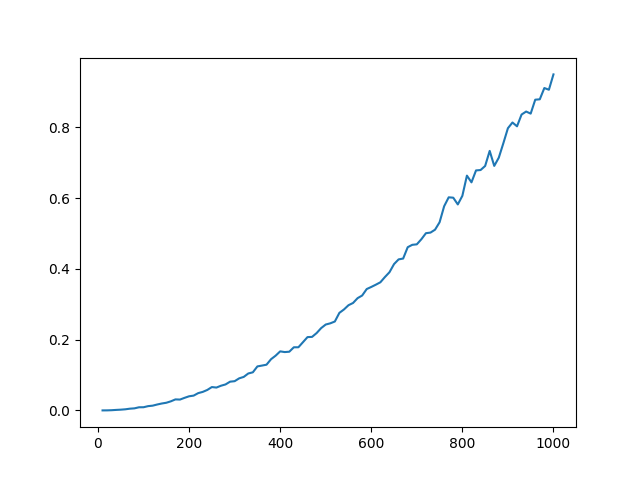
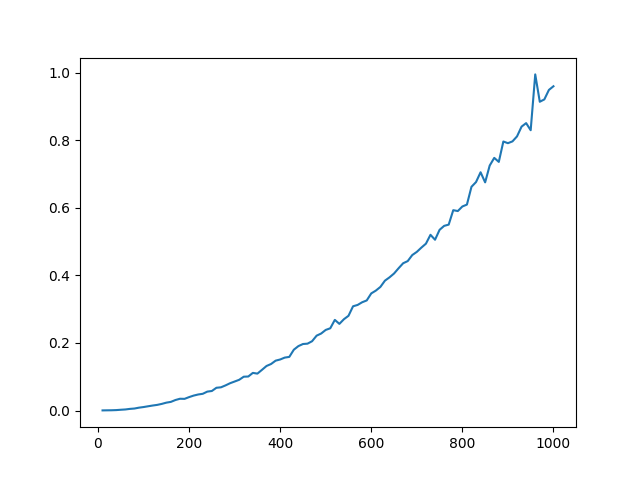
Add insertion sort

diff --git a/InsertionSort.py b/InsertionSort.py
@@ -1,0 +1,57 @@
+import random, time
+import matplotlib.pyplot as plt
+
+class testCase:
+    def __init__(self):
+        self.listSize = 0
+        self.list = []
+        self.compareCount = 0
+        self.beforeTime = 0
+        self.afterTime = 0
+
+def swap(list, a, b):
+    temp = list[a]
+    list[a] = list[b]
+    list[b] = temp
+
+def InsertionSort(case):
+    listLen = len(case.list)
+    for i in range(1, listLen):
+        j = i - 1
+        key = case.list[i]
+        while case.list[j] > key and j >= 0:
+            case.compareCount += 1
+            case.list[j+1] = case.list[j]
+            j = j - 1
+        case.list[j+1] = key
+
+lists = []
+for i in range(10, 1001, 10): #10에서 1000까지(100번)
+    
+    case = testCase()
+    case.listSize = i
+        
+    for i in range(1, i):
+        case.list.append(random.randrange(1, 10000))
+    
+    print("original List : ", case.list)
+    case.beforeTime = time.time()
+    InsertionSort(case)
+    case.afterTime = time.time()
+    print("sorted List : ", case.list)
+    lists.append(case)
+
+x = []
+for i in range(0, 100):
+    x.append(lists[i].listSize)
+y = []
+y2 = []
+for i in range(0, 100):
+    y.append(lists[i].afterTime - lists[i].beforeTime)
+    y2.append(lists[i].compareCount)
+
+plt.plot(x, y) 
+plt.savefig('./img/insertionSortTime.png')
+plt.cla()
+plt.plot(x, y2)
+plt.savefig('./img/insertionSortCount.png')

diff --git a/readme.md b/readme.md
@@ -1,7 +1,21 @@
 # 정렬 알고리즘
 ## 버블 정렬(Bubble Sort)
+* 리스트 크기-연산 횟수 그래프
+  ![그래프](./img/bubbleSortCount.png)
+* 리스트 크기-연산 시간 그래프
+  ![그래프](./img/bubbleSortTime.png)
 ## 선택 정렬(Selection Sort)
+* 리스트 크기-연산 횟수 그래프
+  ![그래프](./img/selectionSortCount.png)
+* 리스트 크기-연산 시간 그래프
+    ![그래프](./img/selectionSortTime.png)
 ## 삽입 정렬(Insertion Sort)
+* 리스트 크기-연산 횟수 그래프
+  ![그래프](./img/insertionSortCount.png)
+* 리스트 크기-연산 시간 그래프
+    ![그래프](./img/insertionSortTime.png)
 ## 병합 정렬(Merge Sort)
+* 리스트 크기-연산 시간 그래프
+    ![그래프](./img/mergeSortTime.png)
 ## 힙 정렬(Heap Sort)
 ## 퀵 정렬(Quick Sort)
